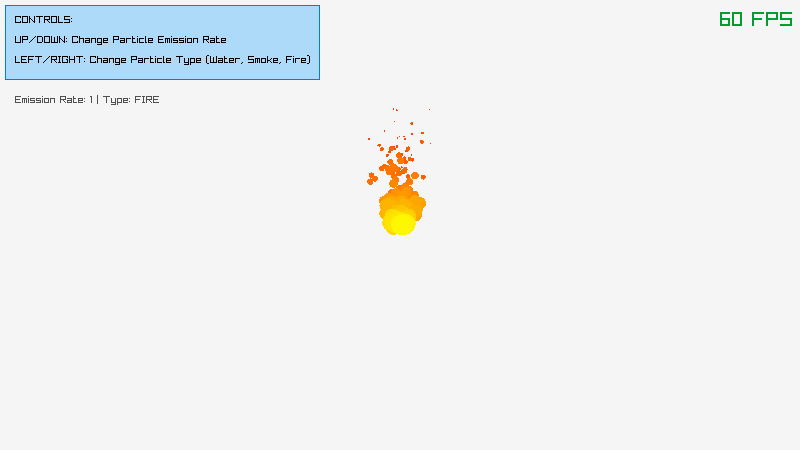
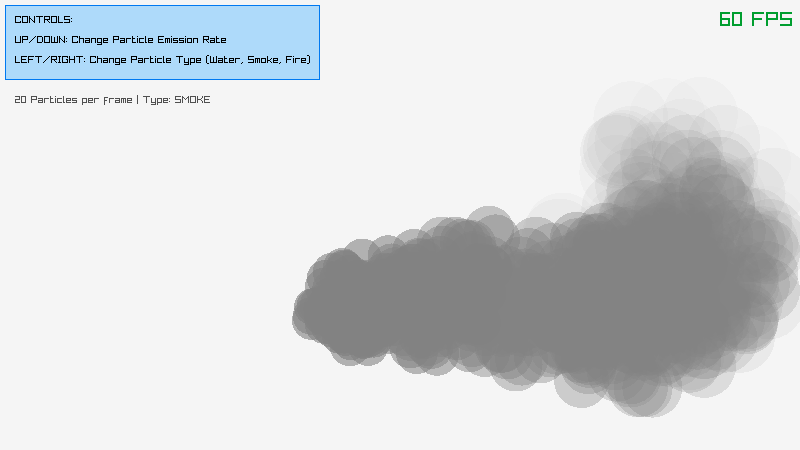
Changes to follow the code conventions. Improved some things.

Changed region(s): [[0.3438, 0.2489, 1.0, 0.9333], [0.0312, 0.2178, 0.25, 0.2489]]

diff --git a/examples/shapes/shapes_particles.c b/examples/shapes/shapes_particles.c
@@ -20,7 +20,7 @@
 #include <stdlib.h>         // Required for: calloc(), free()
 #include <math.h>           // Required for: cosf(), sinf()
 
-#define MAX_PARTICLES 300   // Max number particles
+#define MAX_PARTICLES 3000  // Max number particles
 
 //----------------------------------------------------------------------------------
 // Types and Structures Definition
@@ -46,16 +46,17 @@ typedef struct Particle {
 typedef struct CircularBuffer {
 	int head;               // Index for the next write
 	int tail;               // Index for the next read
-	Particle* buffer;       // Particle buffer array
+	Particle *buffer;       // Particle buffer array
 } CircularBuffer;
 
 //----------------------------------------------------------------------------------
 // Module Functions Declaration
 //----------------------------------------------------------------------------------
-static Particle* AddToCircularBuffer(CircularBuffer* circularBuffer);
-static void UpdateParticles(CircularBuffer* circularBuffer, int screenWidth, int screenHeight);
-static void UpdateCircularBuffer(CircularBuffer* circularBuffer);
-static void DrawParticles(CircularBuffer* circularBuffer);
+static void EmitParticle(CircularBuffer *circularBuffer, Vector2 emitterPosition, ParticleType type);
+static Particle *AddToCircularBuffer(CircularBuffer *circularBuffer);
+static void UpdateParticles(CircularBuffer *circularBuffer, int screenWidth, int screenHeight);
+static void UpdateCircularBuffer(CircularBuffer *circularBuffer);
+static void DrawParticles(CircularBuffer *circularBuffer);
 
 //------------------------------------------------------------------------------------
 // Program main entry point
@@ -70,13 +71,13 @@ int main(void)
     InitWindow(screenWidth, screenHeight, "raylib [shapes] example - particles");
 
     // Definition of particles
-    Particle* particles = (Particle*)RL_CALLOC(MAX_PARTICLES, sizeof(Particle)); // Particle array
+    Particle *particles = (Particle*)RL_CALLOC(MAX_PARTICLES, sizeof(Particle)); // Particle array
 	CircularBuffer circularBuffer = { 0, 0, particles };
     
 	// Particle emitter parameters
-    int emissionRate = 2;
+    int emissionRate = -2;          // Negative: on average every -X frames. Positive: particles per frame
 	ParticleType currentType = WATER;
-	Vector2 emitterPosition = { screenWidth / 2.0f, screenHeight / 2.0f };
+	Vector2 emitterPosition = { screenWidth/2.0f, screenHeight/2.0f };
 
     SetTargetFPS(60);               // Set our game to run at 60 frames-per-second
     //--------------------------------------------------------------------------------------
@@ -87,42 +88,16 @@ int main(void)
         // Update
         //----------------------------------------------------------------------------------
 		// Emit new particles: when emissionRate is 1, emit every frame
-        if ((rand() % emissionRate) == 0)
+        if (emissionRate < 0)
         {
-            Particle* newParticle = AddToCircularBuffer(&circularBuffer);
-			// If buffer is full, newParticle is NULL
-            if (newParticle != NULL)
-            {
-				// Fill particle properties
-                newParticle->position = emitterPosition;
-                newParticle->alive = true;
-                newParticle->lifeTime = 0.0f;
-				newParticle->type = currentType;
-                float speed = (float)(rand() % 10) / 5.0f;
-                switch (currentType)
-                {
-                    case WATER:
-                        newParticle->radius = 5.0f;
-                        newParticle->color = BLUE;
-                        break;
-                    case SMOKE:
-                        newParticle->radius = 7.0f;
-                        newParticle->color = GRAY;
-                        break;
-                    case FIRE:
-                        newParticle->radius = 10.0f;
-                        newParticle->color = YELLOW;
-                        speed /= 10.0f;
-                        break;
-                    default:
-                        newParticle->radius = 5.0f;
-                        newParticle->color = WHITE;
-                        break;
-				}
-                float direction = (float)(rand() % 360);
-                newParticle->velocity = (Vector2){ speed * cosf(direction * DEG2RAD), speed * sinf(direction * DEG2RAD) };
-            }
+            if (rand()%(-emissionRate) == 0)
+                EmitParticle(&circularBuffer, emitterPosition, currentType);
         }
+        else
+        {
+            for (int i = 0; i <= emissionRate; ++i)
+                EmitParticle(&circularBuffer, emitterPosition, currentType);
+		}
 
 		// Update the parameters of each particle
         UpdateParticles(&circularBuffer, screenWidth, screenHeight);
@@ -130,18 +105,19 @@ int main(void)
         UpdateCircularBuffer(&circularBuffer);
 
         // Change Particle Emission Rate (UP/DOWN arrows)
-        if (IsKeyPressed(KEY_UP) && (emissionRate > 1))
-            --emissionRate;
-        if (IsKeyPressed(KEY_DOWN))
+        if (IsKeyPressed(KEY_UP))
             ++emissionRate;
+        if (IsKeyPressed(KEY_DOWN))
+            --emissionRate;
 
         // Change Particle Type (LEFT/RIGHT arrows)
         if (IsKeyPressed(KEY_RIGHT))
-            (currentType == FIRE) ? currentType = WATER : ++currentType;
+            (currentType == FIRE) ? (currentType = WATER) : ++currentType;
         if (IsKeyPressed(KEY_LEFT))
-            (currentType == WATER) ? currentType = FIRE : --currentType;
+            (currentType == WATER) ? (currentType = FIRE) : --currentType;
 
-        //----------------------------------------------------------------------------------
+		if (IsMouseButtonDown(MOUSE_LEFT_BUTTON))
+            emitterPosition = GetMousePosition();
 
         // Draw
         //----------------------------------------------------------------------------------
@@ -160,7 +136,10 @@ int main(void)
         DrawText("UP/DOWN: Change Particle Emission Rate", 15, 35, 10, BLACK);
         DrawText("LEFT/RIGHT: Change Particle Type (Water, Smoke, Fire)", 15, 55, 10, BLACK);
 
-        DrawText(TextFormat("Emission Rate: %d | Type: %s", emissionRate, particleTypesChar[currentType]), 15, 95, 10, DARKGRAY);
+        if (emissionRate < 0)
+            DrawText(TextFormat("Particles every %d frames | Type: %s", -emissionRate, particleTypesChar[currentType]), 15, 95, 10, DARKGRAY);
+		else
+            DrawText(TextFormat("%d Particles per frame | Type: %s", emissionRate + 1, particleTypesChar[currentType]), 15, 95, 10, DARKGRAY);
 
         DrawFPS(screenWidth - 80, 10);
 
@@ -172,7 +151,7 @@ int main(void)
     //--------------------------------------------------------------------------------------
     RL_FREE(particles);     // Free particles array data
 
-    CloseWindow();        // Close window and OpenGL context
+    CloseWindow();          // Close window and OpenGL context
     //--------------------------------------------------------------------------------------
 
     return 0;
@@ -181,27 +160,61 @@ int main(void)
 //----------------------------------------------------------------------------------
 // Module Functions Definition
 //----------------------------------------------------------------------------------
-static Particle* AddToCircularBuffer(CircularBuffer* circularBuffer)
+static void EmitParticle(CircularBuffer *circularBuffer, Vector2 emitterPosition, ParticleType type)
 {
-    Particle* particle = NULL;
+    Particle *newParticle = AddToCircularBuffer(circularBuffer);
+    // If buffer is full, newParticle is NULL
+    if (newParticle != NULL)
+    {
+        // Fill particle properties
+        newParticle->position = emitterPosition;
+        newParticle->alive = true;
+        newParticle->lifeTime = 0.0f;
+        newParticle->type = type;
+        float speed = (float)(rand()%10)/5.0f;
+        switch (type)
+        {
+        case WATER:
+            newParticle->radius = 5.0f;
+            newParticle->color = BLUE;
+            break;
+        case SMOKE:
+            newParticle->radius = 7.0f;
+            newParticle->color = GRAY;
+            break;
+        case FIRE:
+            newParticle->radius = 10.0f;
+            newParticle->color = YELLOW;
+            speed /= 10.0f;
+            break;
+        default: break;
+        }
+        float direction = (float)(rand()%360);
+        newParticle->velocity = (Vector2){ speed*cosf(direction*DEG2RAD), speed*sinf(direction*DEG2RAD) };
+    }
+}
+
+static Particle *AddToCircularBuffer(CircularBuffer *circularBuffer)
+{
+    Particle *particle = NULL;
 
     // Check if buffer full
-    if (((circularBuffer->head + 1) % MAX_PARTICLES) != circularBuffer->tail)
+    if (((circularBuffer->head + 1)%MAX_PARTICLES) != circularBuffer->tail)
     {
 		// Add new particle to the head position and advance head
         particle = &circularBuffer->buffer[circularBuffer->head];
-        circularBuffer->head = (circularBuffer->head + 1) % MAX_PARTICLES;
+        circularBuffer->head = (circularBuffer->head + 1)%MAX_PARTICLES;
     }
 
 	return particle;
 }
 
-static void UpdateParticles(CircularBuffer* circularBuffer, int screenWidth, int screenHeight)
+static void UpdateParticles(CircularBuffer *circularBuffer, int screenWidth, int screenHeight)
 {
-    for (int i = circularBuffer->tail; i != circularBuffer->head; i = (i + 1) % MAX_PARTICLES)
+    for (int i = circularBuffer->tail; i != circularBuffer->head; i = (i + 1)%MAX_PARTICLES)
     {
         // Update particle life and positions
-		circularBuffer->buffer[i].lifeTime += 1.0f / 60.0f; // 60 FPS -> 1/60 seconds per frame
+		circularBuffer->buffer[i].lifeTime += 1.0f/60.0f; // 60 FPS -> 1/60 seconds per frame
 
         switch (circularBuffer->buffer[i].type)
         {
@@ -221,11 +234,11 @@ static void UpdateParticles(CircularBuffer* circularBuffer, int screenWidth, int
                 break;
             case FIRE:
 				// Add a little horizontal oscillation to fire particles
-                circularBuffer->buffer[i].position.x += circularBuffer->buffer[i].velocity.x + cosf(circularBuffer->buffer[i].lifeTime * 10.0f);
-                circularBuffer->buffer[i].velocity.y -= 0.005f; // Upwards
+                circularBuffer->buffer[i].position.x += circularBuffer->buffer[i].velocity.x + cosf(circularBuffer->buffer[i].lifeTime*215.0f);
+                circularBuffer->buffer[i].velocity.y -= 0.05f;  // Upwards
                 circularBuffer->buffer[i].position.y += circularBuffer->buffer[i].velocity.y;
-				circularBuffer->buffer[i].radius -= 0.05f;      // Decrement radius: fire shrinks
-				circularBuffer->buffer[i].color.g -= 1;         // Decrement green: fire turns reddish starting from yellow
+				circularBuffer->buffer[i].radius -= 0.15f;      // Decrement radius: fire shrinks
+				circularBuffer->buffer[i].color.g -= 3;         // Decrement green: fire turns reddish starting from yellow
 				if (circularBuffer->buffer[i].radius <= 0.02f)  // If radius too small, particle dies
                     circularBuffer->buffer[i].alive = false;
                 break;
@@ -233,26 +246,26 @@ static void UpdateParticles(CircularBuffer* circularBuffer, int screenWidth, int
         }
 
 		// Disable particle when out of screen
-        if ((circularBuffer->buffer[i].position.x < 0) ||
-            (circularBuffer->buffer[i].position.x > screenWidth) ||
-            (circularBuffer->buffer[i].position.y < 0) ||
-            (circularBuffer->buffer[i].position.y > screenHeight))
+        Vector2 center = circularBuffer->buffer[i].position;
+		float radius = circularBuffer->buffer[i].radius;
+        if ((center.x < -radius) || (center.x > screenWidth + radius) ||
+            (center.y < -radius) || (center.y > screenHeight + radius))
             circularBuffer->buffer[i].alive = false;
     }
 }
-static void UpdateCircularBuffer(CircularBuffer* circularBuffer)
+static void UpdateCircularBuffer(CircularBuffer *circularBuffer)
 {
     // Update circular buffer: advance tail over dead particles
-    while ((circularBuffer->tail != circularBuffer->head) &&
+    while (circularBuffer->tail != circularBuffer->head &&
            !circularBuffer->buffer[circularBuffer->tail].alive)
     {
-        circularBuffer->tail = (circularBuffer->tail + 1) % MAX_PARTICLES;
+        circularBuffer->tail = (circularBuffer->tail + 1)%MAX_PARTICLES;
 	}
 }
 
-static void DrawParticles(CircularBuffer* circularBuffer)
+static void DrawParticles(CircularBuffer *circularBuffer)
 {
-    for (int i = circularBuffer->tail; i != circularBuffer->head; i = (i + 1) % MAX_PARTICLES)
+    for (int i = circularBuffer->tail; i != circularBuffer->head; i = (i + 1)%MAX_PARTICLES)
     {
         if (circularBuffer->buffer[i].alive)
         {
